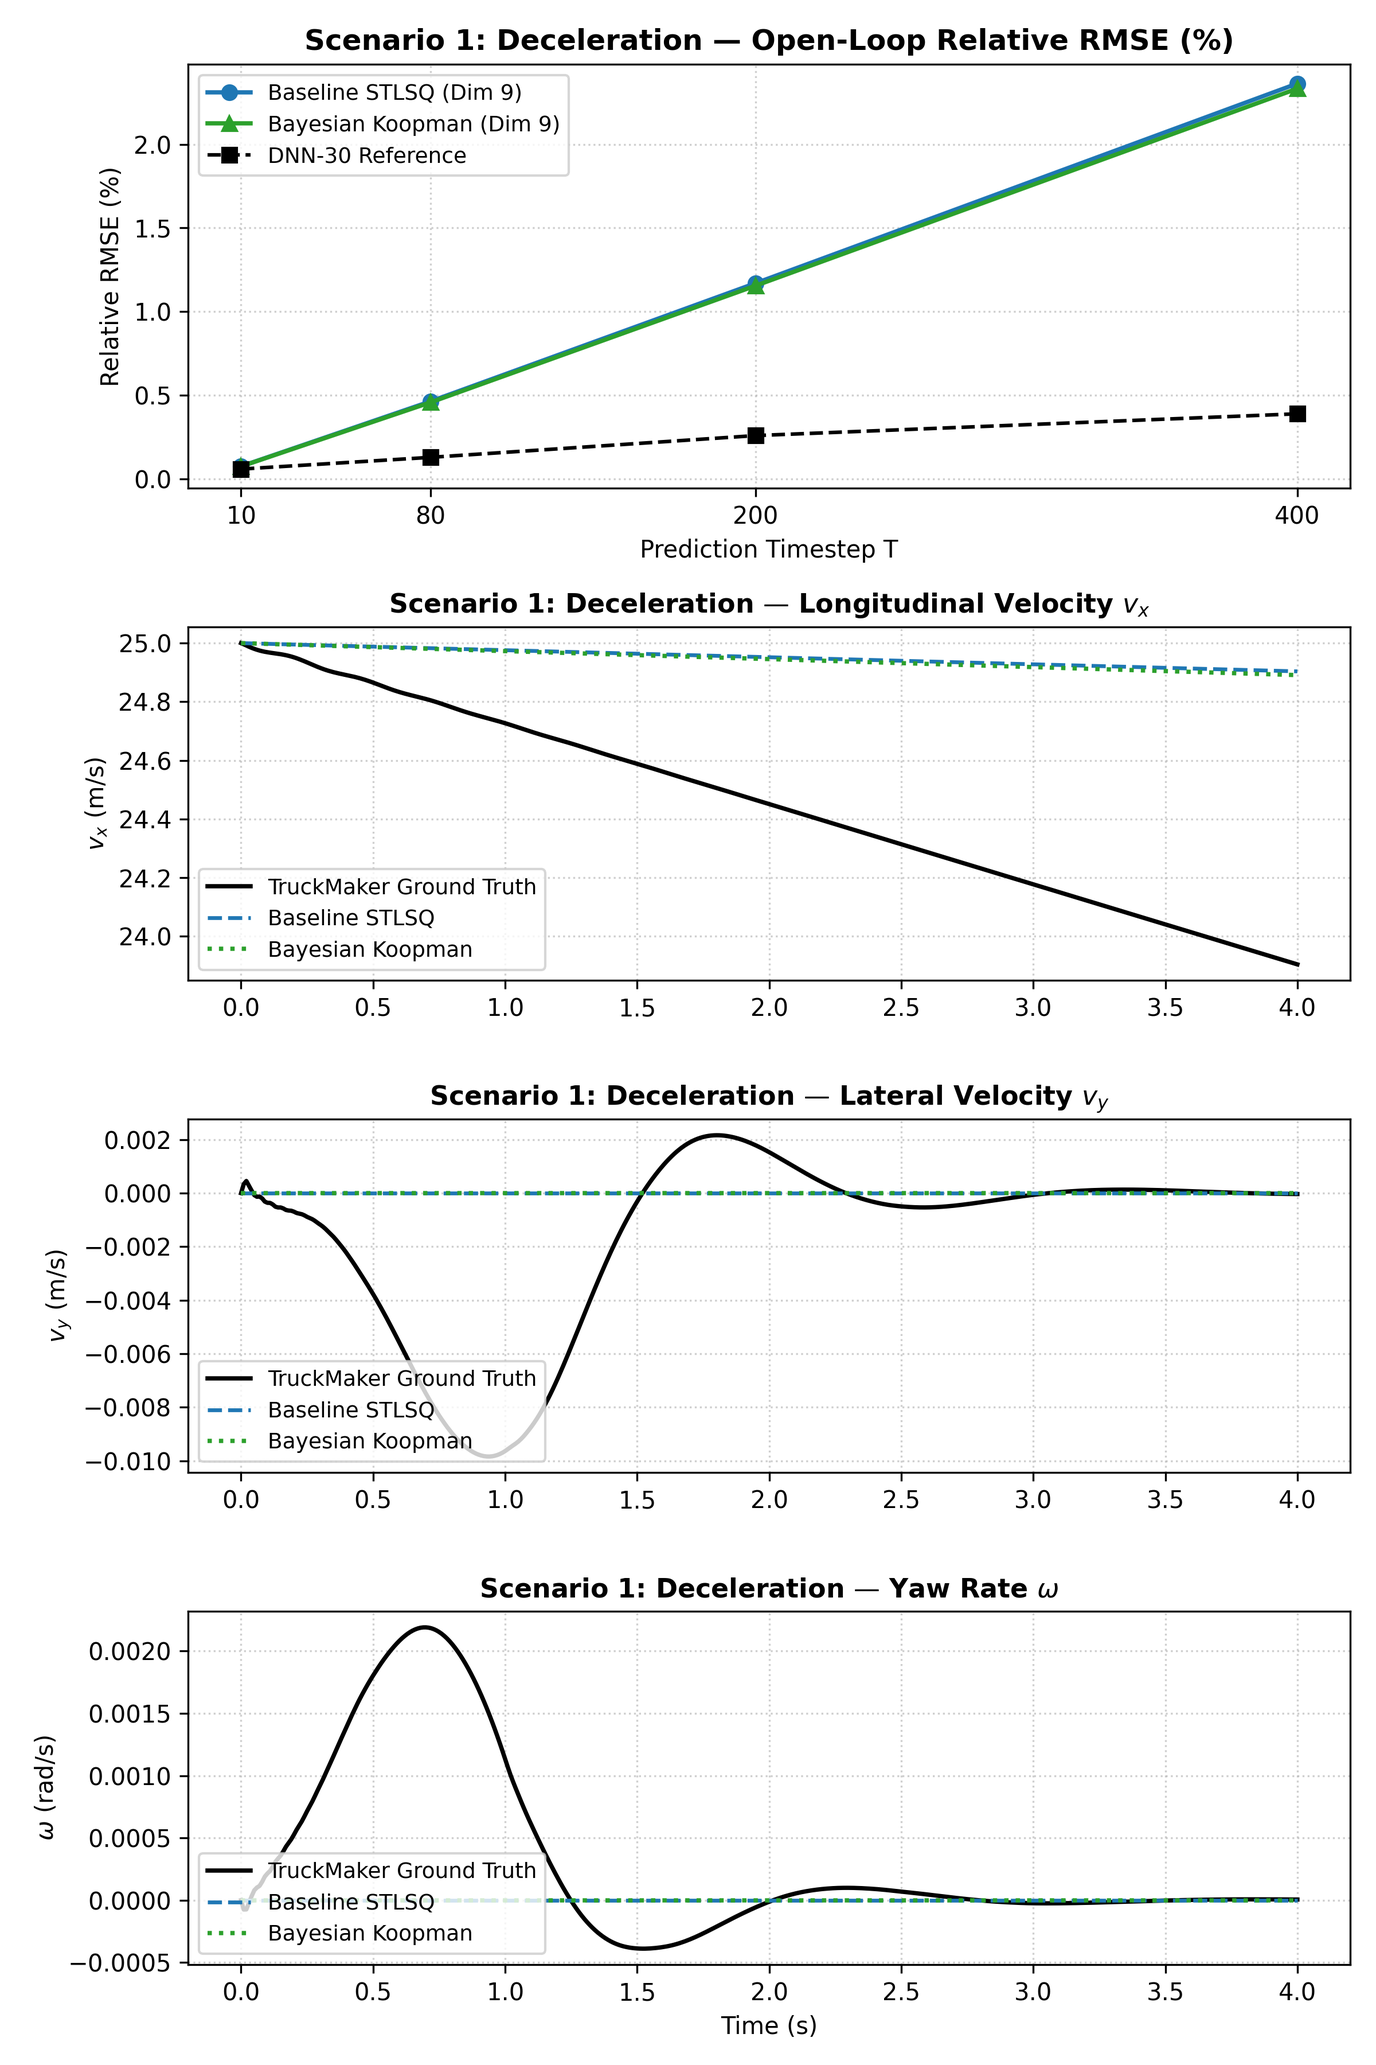
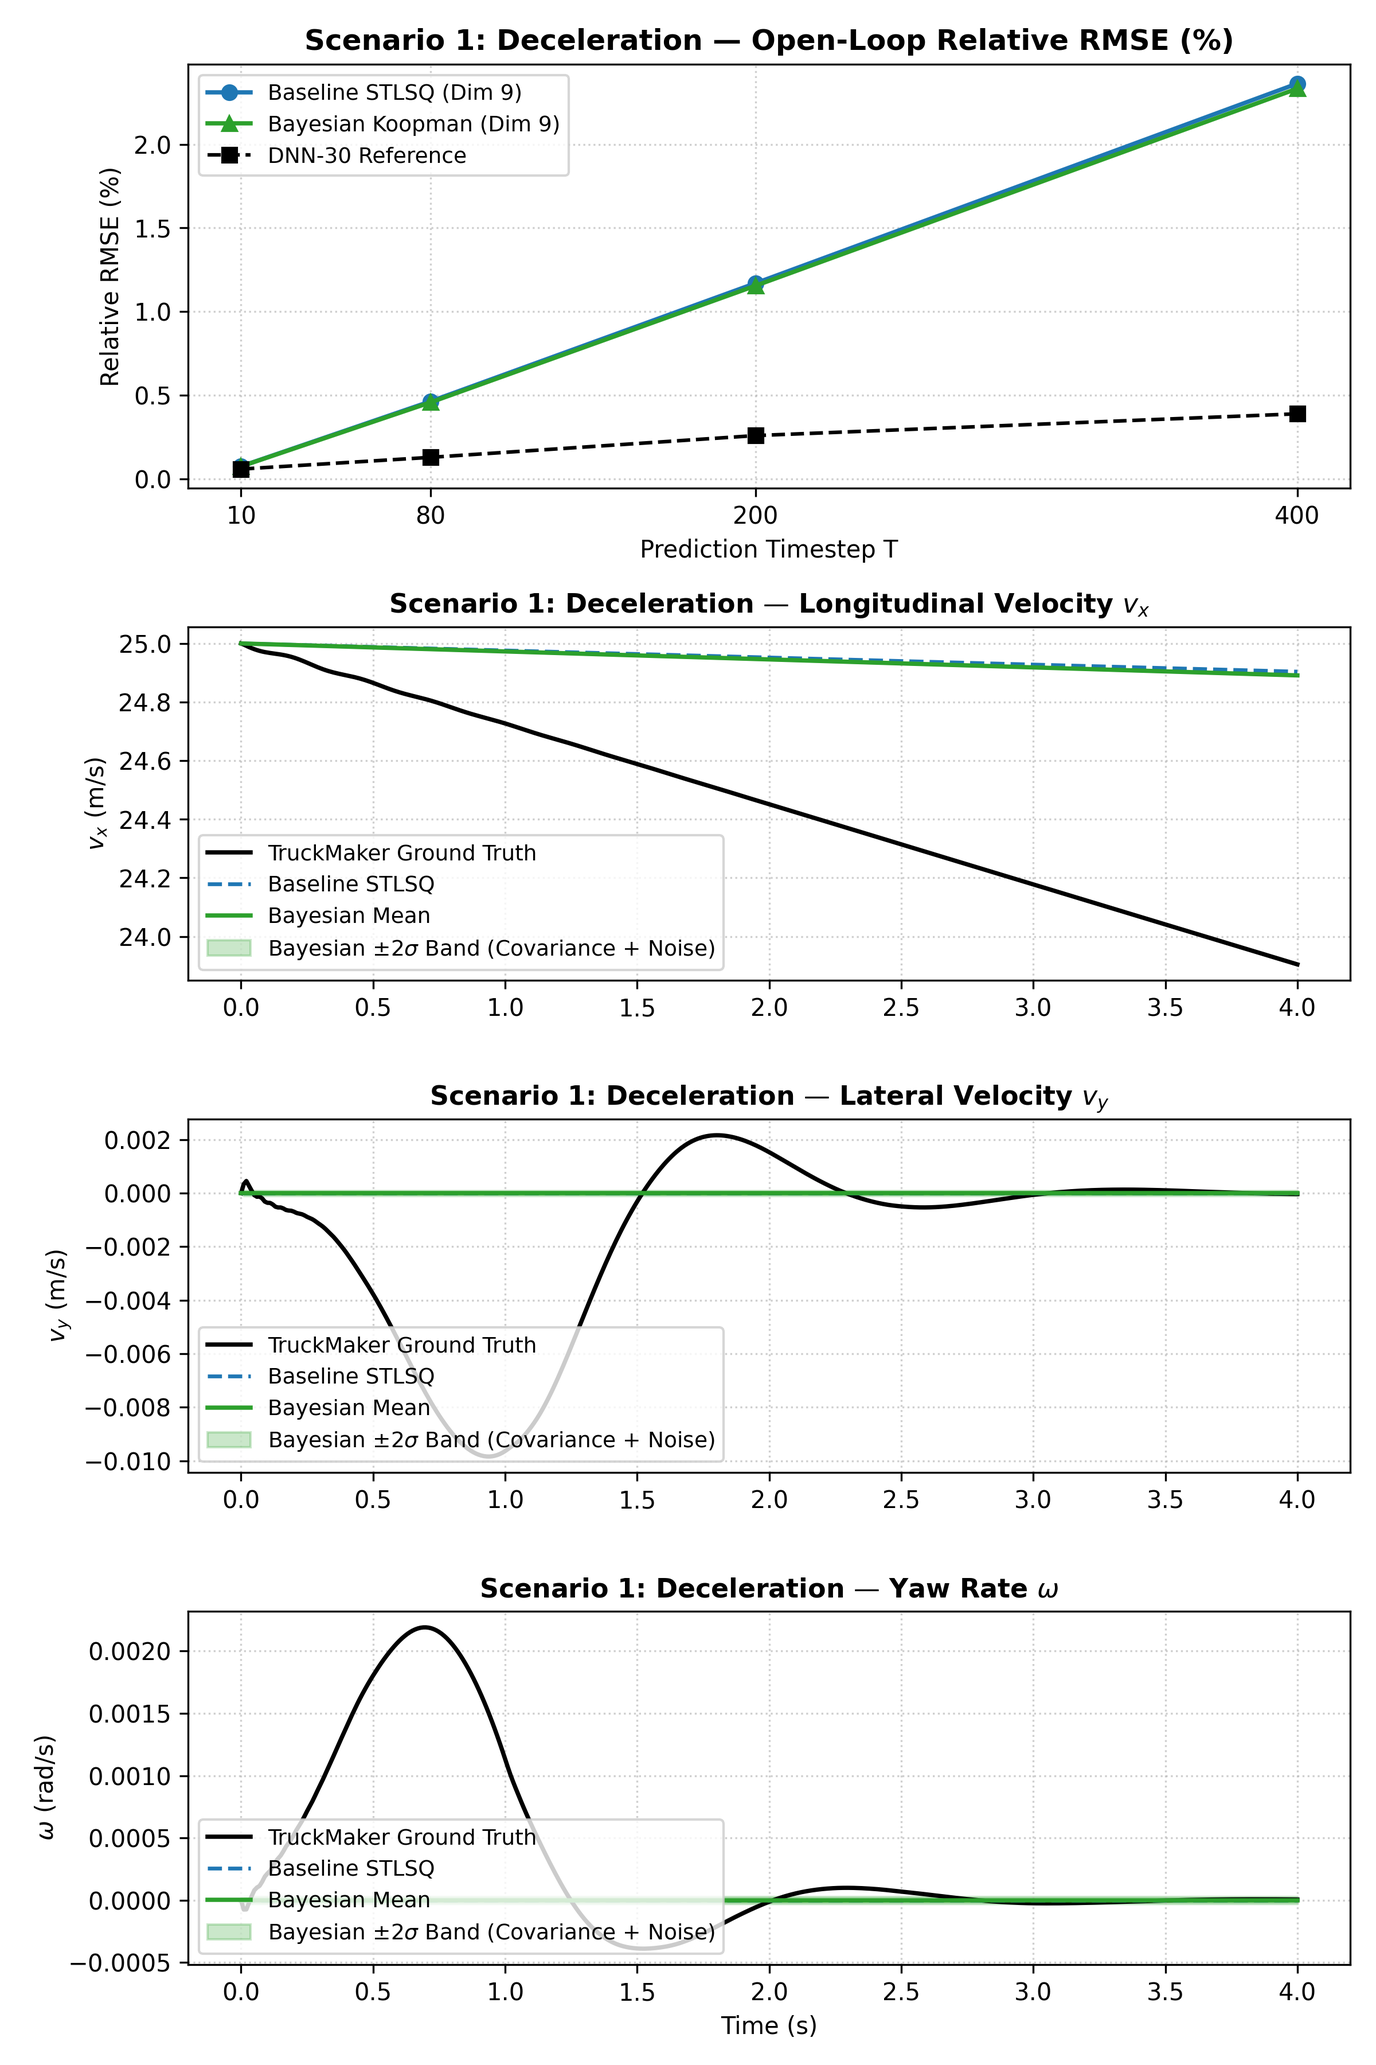
Export Bayesian Koopman model matrices, covariance tensor, noise variance, and scenario uncertainty plots

diff --git a/compare/compare_scenarios.py b/compare/compare_scenarios.py
@@ -29,17 +29,30 @@ def run_scenario_comparison():
     with open(os.path.join(ROOT, 'baseline_stlsq', 'models', 'scaler_u.pkl'), 'rb') as f:
         scaler_u = pickle.load(f)
 
-    # 2. Fit Bayesian Koopman model (step k=0) from training data
-    print("Fitting Bayesian Koopman model from training statistics...")
-    data = get_data('repo')
-    st = accumulate_stats(data['train'], 1, lift_poly2)
-    bm = BayesMultiStep().fit(st)
-    M0 = bm.mu[0]
-    A_bayes = M0[:, :9]
-    B_bayes = M0[:, 9:]
+    # 2. Load or fit Bayesian Koopman model (step k=0) with parameter covariance & noise variance
+    bayes_models_dir = os.path.join(ROOT, 'bayes_pipeline', 'models_bayes')
+    if (os.path.exists(os.path.join(bayes_models_dir, 'A_bayes.npy')) and
+        os.path.exists(os.path.join(bayes_models_dir, 'covariance_Sigma.npy')) and
+        os.path.exists(os.path.join(bayes_models_dir, 'noise_variance.npy'))):
+        print("Loading saved Bayesian Koopman model, covariance, and noise variance...")
+        A_bayes = np.load(os.path.join(bayes_models_dir, 'A_bayes.npy'))
+        B_bayes = np.load(os.path.join(bayes_models_dir, 'B_bayes.npy'))
+        Sig_bayes = np.load(os.path.join(bayes_models_dir, 'covariance_Sigma.npy'))
+        noise_var_bayes = np.load(os.path.join(bayes_models_dir, 'noise_variance.npy'))
+    else:
+        print("Fitting Bayesian Koopman model from training statistics...")
+        data = get_data('repo')
+        st = accumulate_stats(data['train'], 1, lift_poly2)
+        bm = BayesMultiStep().fit(st)
+        M0 = bm.mu[0]
+        A_bayes = M0[:, :9]
+        B_bayes = M0[:, 9:]
+        Sig_bayes = bm.Sig[0]
+        noise_var_bayes = 1.0 / bm.rho[0]
 
-    print(f"Baseline STLSQ nonzeros -> A: {np.count_nonzero(A_stlsq)}/81, B: {np.count_nonzero(B_stlsq)}/18")
+    print(f"Baseline STLSQ nonzeros  -> A: {np.count_nonzero(A_stlsq)}/81, B: {np.count_nonzero(B_stlsq)}/18")
     print(f"Bayesian Koopman nonzeros -> A: {np.count_nonzero(A_bayes)}/81, B: {np.count_nonzero(B_bayes)}/18")
+    print(f"Estimated Noise Variance (vx, vy, omega): {noise_var_bayes[:3]}")
 
     # 3. Setup simulation parameters
     N = 400  # 400 steps (4.0 seconds @ 100 Hz)
@@ -47,6 +60,7 @@ def run_scenario_comparison():
     t_vec = np.arange(N) * Ts
     checkpoints = [10, 80, 200, 400]
     x0 = np.array([25.0, 0.0, 0.0])  # Initial state [vx, vy, omega]
+    sx = scaler_x.scale_
 
     # Scenario 1 inputs: Constant deceleration (Fx = -1000 N, delta = 0 rad)
     Fx_seq_1 = -1000.0 * np.ones(N)
@@ -56,11 +70,12 @@ def run_scenario_comparison():
     Fx_seq_2 = 5000.0 * np.sin(t_vec) + 1000.0
     delta_seq_2 = 5.0 * np.sin(t_vec) * np.pi / 180.0
 
-    # Simulation rollout helper
-    def simulate_model(A, B, Fx_seq, delta_seq):
+    # Simulation rollout helper with Bayesian covariance & noise uncertainty
+    def simulate_model(A, B, Fx_seq, delta_seq, compute_uncertainty=False):
         x_pred = np.zeros((N + 1, 3))
         x_pred[0] = x0
         x_curr_raw = x0.copy()
+        sigma_phys = np.zeros((N + 1, 3))
 
         for k in range(N):
             x_curr_sc = scaler_x.transform(x_curr_raw.reshape(1, -1))
@@ -68,22 +83,29 @@ def run_scenario_comparison():
             u_curr_sc = scaler_u.transform(u_phys)
 
             z_curr = lift_poly2(x_curr_sc)[0]
-            z_next = A @ z_curr + B @ u_curr_sc[0]
 
+            if compute_uncertainty:
+                phi = np.concatenate([z_curr, u_curr_sc[0]])
+                for j in range(3):
+                    var_param = float(phi @ Sig_bayes[j] @ phi)
+                    var_total = var_param + noise_var_bayes[j]
+                    sigma_phys[k + 1, j] = np.sqrt(max(var_total, 0.0)) * sx[j]
+
+            z_next = A @ z_curr + B @ u_curr_sc[0]
             x_next_sc = z_next[:3].reshape(1, -1)
             x_next_raw = scaler_x.inverse_transform(x_next_sc)[0]
 
             x_pred[k + 1] = x_next_raw
             x_curr_raw = x_next_raw
 
-        return x_pred
+        return x_pred, sigma_phys
 
     # Run predictions
-    pred_stlsq_1 = simulate_model(A_stlsq, B_stlsq, Fx_seq_1, delta_seq_1)
-    pred_bayes_1 = simulate_model(A_bayes, B_bayes, Fx_seq_1, delta_seq_1)
+    pred_stlsq_1, _ = simulate_model(A_stlsq, B_stlsq, Fx_seq_1, delta_seq_1, compute_uncertainty=False)
+    pred_bayes_1, sig_bayes_1 = simulate_model(A_bayes, B_bayes, Fx_seq_1, delta_seq_1, compute_uncertainty=True)
 
-    pred_stlsq_2 = simulate_model(A_stlsq, B_stlsq, Fx_seq_2, delta_seq_2)
-    pred_bayes_2 = simulate_model(A_bayes, B_bayes, Fx_seq_2, delta_seq_2)
+    pred_stlsq_2, _ = simulate_model(A_stlsq, B_stlsq, Fx_seq_2, delta_seq_2, compute_uncertainty=False)
+    pred_bayes_2, sig_bayes_2 = simulate_model(A_bayes, B_bayes, Fx_seq_2, delta_seq_2, compute_uncertainty=True)
 
     # 4. Load TruckMaker Ground Truth
     gt1_path = os.path.join(ROOT, 'baseline_stlsq', 'Test 1', 'scenario_1_simulation_data.csv')
@@ -133,12 +155,12 @@ def run_scenario_comparison():
     print(f"{'DNN-30 Reference':<18}" + "".join([f"{v:<14.2f}" for v in dnn_ref_2]))
     print("==========================================================================\n")
 
-    # 5. Generate Combined 4-Panel Figures
+    # 5. Generate Combined 4-Panel Figures with Bayesian Uncertainty Bands
     t_axis = np.linspace(0, N * Ts, N + 1)
     out_dir = os.path.join(ROOT, 'compare')
     os.makedirs(out_dir, exist_ok=True)
 
-    def plot_scenario_comparison(title_prefix, x_true, p_stlsq, p_bayes, r_stlsq, r_bayes, r_dnn, filename):
+    def plot_scenario_comparison(title_prefix, x_true, p_stlsq, p_bayes, sig_bayes, r_stlsq, r_bayes, r_dnn, filename):
         fig, axs = plt.subplots(4, 1, figsize=(8, 12), gridspec_kw={'height_ratios': [1.2, 1, 1, 1]})
 
         # Panel 1: Relative RMSE vs Timestep
@@ -155,7 +177,9 @@ def run_scenario_comparison():
         # Panel 2: Longitudinal Velocity vx
         axs[1].plot(t_axis, x_true[:, 0], 'k-', label='TruckMaker Ground Truth', linewidth=1.8)
         axs[1].plot(t_axis, p_stlsq[:, 0], '--', color='#1f77b4', label='Baseline STLSQ', linewidth=1.6)
-        axs[1].plot(t_axis, p_bayes[:, 0], ':', color='#2ca02c', label='Bayesian Koopman', linewidth=1.8)
+        axs[1].plot(t_axis, p_bayes[:, 0], '-', color='#2ca02c', label='Bayesian Mean', linewidth=1.8)
+        axs[1].fill_between(t_axis, p_bayes[:, 0] - 2 * sig_bayes[:, 0], p_bayes[:, 0] + 2 * sig_bayes[:, 0],
+                            color='#2ca02c', alpha=0.25, label=r'Bayesian $\pm 2\sigma$ Band (Covariance + Noise)')
         axs[1].set_title(f'{title_prefix} — Longitudinal Velocity $v_x$', fontsize=11, fontweight='bold')
         axs[1].set_ylabel(r'$v_x$ (m/s)', fontsize=10)
         axs[1].legend(fontsize=9, loc='lower left')
@@ -164,7 +188,9 @@ def run_scenario_comparison():
         # Panel 3: Lateral Velocity vy
         axs[2].plot(t_axis, x_true[:, 1], 'k-', label='TruckMaker Ground Truth', linewidth=1.8)
         axs[2].plot(t_axis, p_stlsq[:, 1], '--', color='#1f77b4', label='Baseline STLSQ', linewidth=1.6)
-        axs[2].plot(t_axis, p_bayes[:, 1], ':', color='#2ca02c', label='Bayesian Koopman', linewidth=1.8)
+        axs[2].plot(t_axis, p_bayes[:, 1], '-', color='#2ca02c', label='Bayesian Mean', linewidth=1.8)
+        axs[2].fill_between(t_axis, p_bayes[:, 1] - 2 * sig_bayes[:, 1], p_bayes[:, 1] + 2 * sig_bayes[:, 1],
+                            color='#2ca02c', alpha=0.25, label=r'Bayesian $\pm 2\sigma$ Band (Covariance + Noise)')
         axs[2].set_title(f'{title_prefix} — Lateral Velocity $v_y$', fontsize=11, fontweight='bold')
         axs[2].set_ylabel(r'$v_y$ (m/s)', fontsize=10)
         axs[2].legend(fontsize=9, loc='lower left')
@@ -173,7 +199,9 @@ def run_scenario_comparison():
         # Panel 4: Yaw Rate omega
         axs[3].plot(t_axis, x_true[:, 2], 'k-', label='TruckMaker Ground Truth', linewidth=1.8)
         axs[3].plot(t_axis, p_stlsq[:, 2], '--', color='#1f77b4', label='Baseline STLSQ', linewidth=1.6)
-        axs[3].plot(t_axis, p_bayes[:, 2], ':', color='#2ca02c', label='Bayesian Koopman', linewidth=1.8)
+        axs[3].plot(t_axis, p_bayes[:, 2], '-', color='#2ca02c', label='Bayesian Mean', linewidth=1.8)
+        axs[3].fill_between(t_axis, p_bayes[:, 2] - 2 * sig_bayes[:, 2], p_bayes[:, 2] + 2 * sig_bayes[:, 2],
+                            color='#2ca02c', alpha=0.25, label=r'Bayesian $\pm 2\sigma$ Band (Covariance + Noise)')
         axs[3].set_title(f'{title_prefix} — Yaw Rate $\\omega$', fontsize=11, fontweight='bold')
         axs[3].set_xlabel('Time (s)', fontsize=10)
         axs[3].set_ylabel(r'$\omega$ (rad/s)', fontsize=10)
@@ -186,9 +214,9 @@ def run_scenario_comparison():
         plt.close()
         print(f"Saved: {save_path}")
 
-    plot_scenario_comparison('Scenario 1: Deceleration', x_true_1, pred_stlsq_1, pred_bayes_1,
+    plot_scenario_comparison('Scenario 1: Deceleration', x_true_1, pred_stlsq_1, pred_bayes_1, sig_bayes_1,
                              rmse_stlsq_1, rmse_bayes_1, dnn_ref_1, 'scenario_1_comparison.png')
-    plot_scenario_comparison('Scenario 2: Lane Change', x_true_2, pred_stlsq_2, pred_bayes_2,
+    plot_scenario_comparison('Scenario 2: Lane Change', x_true_2, pred_stlsq_2, pred_bayes_2, sig_bayes_2,
                              rmse_stlsq_2, rmse_bayes_2, dnn_ref_2, 'scenario_2_comparison.png')
 
 if __name__ == '__main__':

diff --git a/bayes_pipeline/main.py b/bayes_pipeline/main.py
@@ -1,0 +1,116 @@
+import numpy as np
+import pandas as pd
+import os
+import sys
+
+# Ensure bayes_pipeline is in sys.path
+SCRIPT_DIR = os.path.dirname(os.path.abspath(__file__))
+if SCRIPT_DIR not in sys.path:
+    sys.path.insert(0, SCRIPT_DIR)
+
+from adapter import get_data
+from windows import accumulate_stats
+from bayes_multistep import BayesMultiStep
+from lifting_np import lift_poly2
+
+def main():
+    print("=== Bayesian Koopman Operator Sparse Regression Pipeline ===")
+    
+    # 1. Load Data
+    data = get_data('repo')
+    
+    # 2. Accumulate Streaming Statistics & Fit Bayesian Model via ARD
+    print("\nAccumulating streaming statistics and fitting Bayesian model via ARD...")
+    st = accumulate_stats(data['train'], 1, lift_poly2)
+    bm = BayesMultiStep().fit(st)
+    
+    # 3. Extract 1-Step Model Parameters (k=0)
+    # M0 shape: (L, L + m) = (9, 11)
+    M0 = bm.mu[0]
+    A_bayes = M0[:, :9]
+    B_bayes = M0[:, 9:]
+    
+    # Parameter Covariance Tensor (L, d0, d0) = (9, 11, 11)
+    Sig0 = bm.Sig[0]
+    
+    # Measurement / Residual Noise Precision (L,) = (9,)
+    rho0 = bm.rho[0]
+    noise_variance = 1.0 / rho0
+    noise_std = np.sqrt(noise_variance)
+    
+    # 4. Display Summary
+    features = [
+        'vx_scaled', 'vy_scaled', 'omega_scaled',
+        'vx_scaled^2', 'vy_scaled^2', 'omega_scaled^2',
+        'vx_scaled*vy_scaled', 'vx_scaled*omega_scaled', 'vy_scaled*omega_scaled'
+    ]
+    controls = ['Fx_scaled', 'delta_scaled']
+    regressor_names = features + controls
+    
+    active_A = np.count_nonzero(A_bayes)
+    active_B = np.count_nonzero(B_bayes)
+    
+    print("\n=== Bayesian Model Summary ===")
+    print(f"Active terms in A_bayes: {active_A} / {A_bayes.size}")
+    print(f"Active terms in B_bayes: {active_B} / {B_bayes.size}")
+    
+    print("\nEstimated Measurement / Residual Noise Variance (1 / rho):")
+    print(f"{'State Channel':<24} {'Noise Variance':<20} {'Noise Std (sigma)':<20}")
+    print("-" * 64)
+    for i, name in enumerate(features[:3]):
+        print(f"{name:<24} {noise_variance[i]:<20.4e} {noise_std[i]:<20.4e}")
+        
+    print("\nParameter Uncertainty (SE = sqrt(diag(Sigma)) for key states):")
+    print(f"{'State Channel':<24} {'Max Param SE':<20} {'Min Nonzero Param SE':<20}")
+    print("-" * 64)
+    for i, name in enumerate(features[:3]):
+        diag_sig = np.sqrt(np.diag(Sig0[i]))
+        nonzero_se = diag_sig[diag_sig > 0]
+        min_nz = np.min(nonzero_se) if len(nonzero_se) > 0 else 0.0
+        max_se = np.max(diag_sig)
+        print(f"{name:<24} {max_se:<20.4e} {min_nz:<20.4e}")
+        
+    # 5. Save Artifacts
+    out_dir = os.path.join(SCRIPT_DIR, 'models_bayes')
+    os.makedirs(out_dir, exist_ok=True)
+    
+    np.save(os.path.join(out_dir, 'A_bayes.npy'), A_bayes)
+    np.save(os.path.join(out_dir, 'B_bayes.npy'), B_bayes)
+    np.save(os.path.join(out_dir, 'covariance_Sigma.npy'), Sig0)
+    np.save(os.path.join(out_dir, 'noise_variance.npy'), noise_variance)
+    
+    # Save CSVs
+    df_A = pd.DataFrame(A_bayes, index=features, columns=features)
+    df_B = pd.DataFrame(B_bayes, index=features, columns=controls)
+    df_A.to_csv(os.path.join(out_dir, 'A_bayes.csv'))
+    df_B.to_csv(os.path.join(out_dir, 'B_bayes.csv'))
+    
+    # Save human-readable summary text
+    with open(os.path.join(out_dir, 'bayesian_model_summary.txt'), 'w', encoding='utf-8') as f:
+        f.write("========================================================================\n")
+        f.write("           BAYESIAN KOOPMAN OPERATOR MODEL SUMMARY\n")
+        f.write("========================================================================\n\n")
+        f.write(f"Active terms in A_bayes: {active_A} / {A_bayes.size}\n")
+        f.write(f"Active terms in B_bayes: {active_B} / {B_bayes.size}\n\n")
+        
+        f.write("Estimated Measurement / Residual Noise Variance (1 / rho):\n")
+        for i, name in enumerate(features[:3]):
+            f.write(f"  {name:<22}: Var = {noise_variance[i]:.4e}, Std = {noise_std[i]:.4e}\n")
+            
+        f.write("\n=== MATRIX A_bayes (9x9 Posterior Mean) ===\n")
+        f.write(df_A.round(6).to_string())
+        f.write("\n\n=== MATRIX B_bayes (9x2 Posterior Mean) ===\n")
+        f.write(df_B.round(6).to_string())
+        
+        f.write("\n\n=== PARAMETER STANDARD ERRORS (sqrt(diag(Sigma))) ===\n")
+        df_se = pd.DataFrame(
+            np.array([np.sqrt(np.diag(Sig0[i])) for i in range(len(features))]),
+            index=features, columns=regressor_names
+        )
+        f.write(df_se.round(6).to_string())
+        f.write("\n")
+        
+    print(f"\nSaved Bayesian model matrices and covariance summary to: {out_dir}")
+
+if __name__ == '__main__':
+    main()

diff --git a/README.md b/README.md
@@ -52,6 +52,7 @@ Core dependencies:
 │   └── results/                    # Rollout plots, dashboards, and reports
 │
 ├── bayes_pipeline/                 # Bayesian Multi-Step & Tightening pipeline
+│   ├── main.py                     # Bayesian Koopman operator fitting & artifact export
 │   ├── adapter.py                  # Data adapter wrapping baseline loader
 │   ├── config.py                   # Central settings (horizons, epsilon, strides)
 │   ├── lifting_np.py               # Pure-NumPy degree-2 polynomial lifting
@@ -63,6 +64,12 @@ Core dependencies:
 │   ├── run_bayes.py                # Violation rate vs training size sweep experiment
 │   ├── run_closed_loop.py          # Closed-loop simulation demo
 │   ├── synthetic.py                # Synthetic plant simulation generator
+│   ├── models_bayes/               # Saved Bayesian matrices, covariance tensor, & noise var
+│   │   ├── A_bayes.npy / .csv      # Posterior mean A matrix (9x9)
+│   │   ├── B_bayes.npy / .csv      # Posterior mean B matrix (9x2)
+│   │   ├── covariance_Sigma.npy    # Parameter covariance tensor (9x11x11)
+│   │   ├── noise_variance.npy      # Measurement/residual noise variance (1/rho)
+│   │   └── bayesian_model_summary.txt # Human-readable parameter summary & SE table
 │   └── tests/
 │       └── test_smoke.py           # Unit tests (lifting order, ARD, uncertainty shrinkage)
 │
@@ -113,6 +120,12 @@ Evaluated over $N = 400$ steps ($4.0\text{ seconds}$ at $100\text{ Hz}$):
 
 ## 2. Running the Bayesian Multi-Step Pipeline (`bayes_pipeline/`)
 
+### Fit Bayesian Koopman Model & Export Matrices / Covariance
+```bash
+py bayes_pipeline/main.py
+```
+This fits the Bayesian Koopman operator via Automatic Relevance Determination (ARD), extracts the posterior mean matrices ($A_{\text{bayes}} \in \mathbb{R}^{9 \times 9}, B_{\text{bayes}} \in \mathbb{R}^{9 \times 2}$), parameter covariance tensor ($\Sigma \in \mathbb{R}^{9 \times 11 \times 11}$), and measurement/residual noise variance ($\sigma_{\text{noise}}^2 = 1/\rho \in \mathbb{R}^9$), saving all artifacts into `bayes_pipeline/models_bayes/`.
+
 ### Run Unit Tests
 ```bash
 py bayes_pipeline/tests/test_smoke.py
@@ -156,7 +169,7 @@ Evaluated on held-out test windows:
 ### A. Benchmark Scenarios: Baseline STLSQ vs. Bayesian Koopman vs. DNN-30 Reference
 Evaluated on the exact ground-truth logs in `baseline_stlsq/Test 1/` (`scenario_1_simulation_data.csv` and `scenario_2_simulation_data.csv`) over $N = 400$ steps ($4.0\text{ seconds}$ at $100\text{ Hz}$):
 
-To run this comparison and regenerate the 4-panel comparison plots:
+To run this comparison and regenerate the 4-panel comparison plots (including $\pm 2\sigma$ Bayesian predictive uncertainty bands combining parameter covariance $\Sigma$ and residual noise variance $\sigma_{\text{noise}}^2$):
 ```bash
 py compare/compare_scenarios.py
 ```
